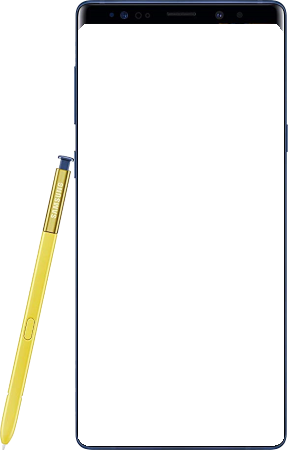
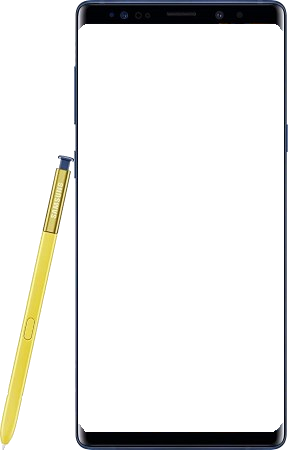
more responsive design, minor material design experiments and fixed broken image

diff --git a/src/Smartphone.js b/src/Smartphone.js
@@ -21,7 +21,7 @@ class Smartphone extends Component {
           {FilterStore.scaleInput ? (
             <img
               style={{
-                maxHeight: 0.26 * this.props.smartphone.length + "vh"
+                height: (this.props.smartphone.length / 165) * 100 + "%"
               }}
               className="qtip-img"
               src={
@@ -30,11 +30,12 @@ class Smartphone extends Component {
                   : "images/" + this.props.smartphone.imagelink + ".jpg"
               }
               alt=""
-              height="450"
             />
           ) : (
             <img
-              style={{ maxHeight: 0.3 * 140 + "vh" }}
+              style={{
+                height: (165 / 165) * 100 + "%"
+              }}
               className="qtip-img"
               src={
                 FilterStore.emptySmartphones
@@ -42,7 +43,6 @@ class Smartphone extends Component {
                   : "images/" + this.props.smartphone.imagelink + ".jpg"
               }
               alt=""
-              height="450"
             />
           )}
         </div>

diff --git a/src/App.css b/src/App.css
@@ -57,7 +57,7 @@
 .App {
   line-height: 1;
   display: grid;
-  background-color: #eeeeee;
+  background-color: #fff;
   grid-template-rows: 53px 1fr 4px;
   grid-template-areas:
     "header header header"
@@ -68,17 +68,16 @@
 .content {
   grid-area: content;
   background-color: #fff;
-  height: calc(100vh - 58px);
+  height: calc(100vh - 89px);
   overflow: auto;
-  box-shadow: 0 0 4px rgba(0, 0, 0, 0.12), 0 0 3px rgba(0, 0, 0, 0.24);
-  margin: 14px;
   border-radius: 8px;
+  margin: 14px;
+  border: #e0e0e0 2px solid;
 }
 
 .sidebar {
   grid-area: sidebar;
-  background-color: #eeeeee;
-  height: calc(100vh - 85px);
+  height: calc(100vh - 74px);
   overflow: auto;
 }
 
@@ -88,7 +87,7 @@
   }
 
   .content {
-    height: calc(100vh - 110px);
+    height: calc(100vh - 114px);
   }
 
   .sidebar {
@@ -126,11 +125,7 @@
 
 .footer {
   grid-area: footer;
-  box-sizing: border-box;
-  font-weight: bold;
   z-index: 20;
   padding-left: 15%;
-  text-align: left;
   background-color: #1976d2;
-  box-shadow: 0 -10px 20px rgba(0, 0, 0, 0.19), 0 -6px 6px rgba(0, 0, 0, 0.23);
 }

diff --git a/src/Smartphone.css b/src/Smartphone.css
@@ -10,8 +10,9 @@
   padding: 5px;
   margin: 5px;
   margin-top: 15px;
-  box-shadow: 0 0 4px rgba(0, 0, 0, 0.12), 0 0 3px rgba(0, 0, 0, 0.24);
   border-radius: 8px;
+  border: #e0e0e0 2px solid;
+  min-width: 170px;
 }
 
 .smartphone-details p {
@@ -20,8 +21,8 @@
 
 .smartphone-filtercriteria {
   font-weight: bold;
-  padding-left: 8px;
-  padding-top: 8px;
+  padding-top: 4px;
+  padding-bottom: 4px;
   vertical-align: top;
   text-align: center;
   color: #1976d2;
@@ -84,12 +85,10 @@
 
 .qtip-img {
   vertical-align: middle;
-  width: auto;
-  height: auto;
 }
 
 .img-container {
-  height: 43vh;
+  height: calc(100vh - 509px);
   align-items: flex-end;
   display: flex;
   justify-content: center;

diff --git a/src/Sidebar.css b/src/Sidebar.css
@@ -3,14 +3,15 @@
   align-items: center;
   grid-template-columns: minmax(100px, 0.7fr) minmax(80px, 1fr);
   grid-auto-rows: minmax(0, auto);
-  margin-top: 14px;
-  margin-left: 10px;
-  margin-right: 10px;
+
   transition: all 0.3s cubic-bezier(0.25, 0.8, 0.25, 1);
   background: #ffffff;
-  box-shadow: 0 1px 2px 0 rgba(60, 64, 67, 0.3),
-    0 3px 6px 2px rgba(60, 64, 67, 0.15);
   border-radius: 8px;
+  border: #e0e0e0 2px solid;
+  overflow: hidden;
+  margin-top: 14px;
+  margin-bottom: 14px;
+  margin-left: 14px;
 }
 
 .sliderContainer {
@@ -65,7 +66,6 @@
   padding-left: 5px;
   padding-top: 4px;
   padding-bottom: 4px;
-  border-radius: 8px;
 }
 
 input[type="date"],

diff --git a/src/Header.css b/src/Header.css
@@ -7,7 +7,7 @@
   padding-bottom: 3px;
   padding-left: 15%;
   text-align: left;
-  background-color: #eeeeee;
+  background-color: #fff;
 }
 
 .logo-text {

diff --git a/src/Content.css b/src/Content.css
@@ -1,6 +1,5 @@
 .smartphone {
-  margin: 5px;
-  margin-left: 10px;
+  margin-left: 14px;
   margin-right: 0;
 }
 
